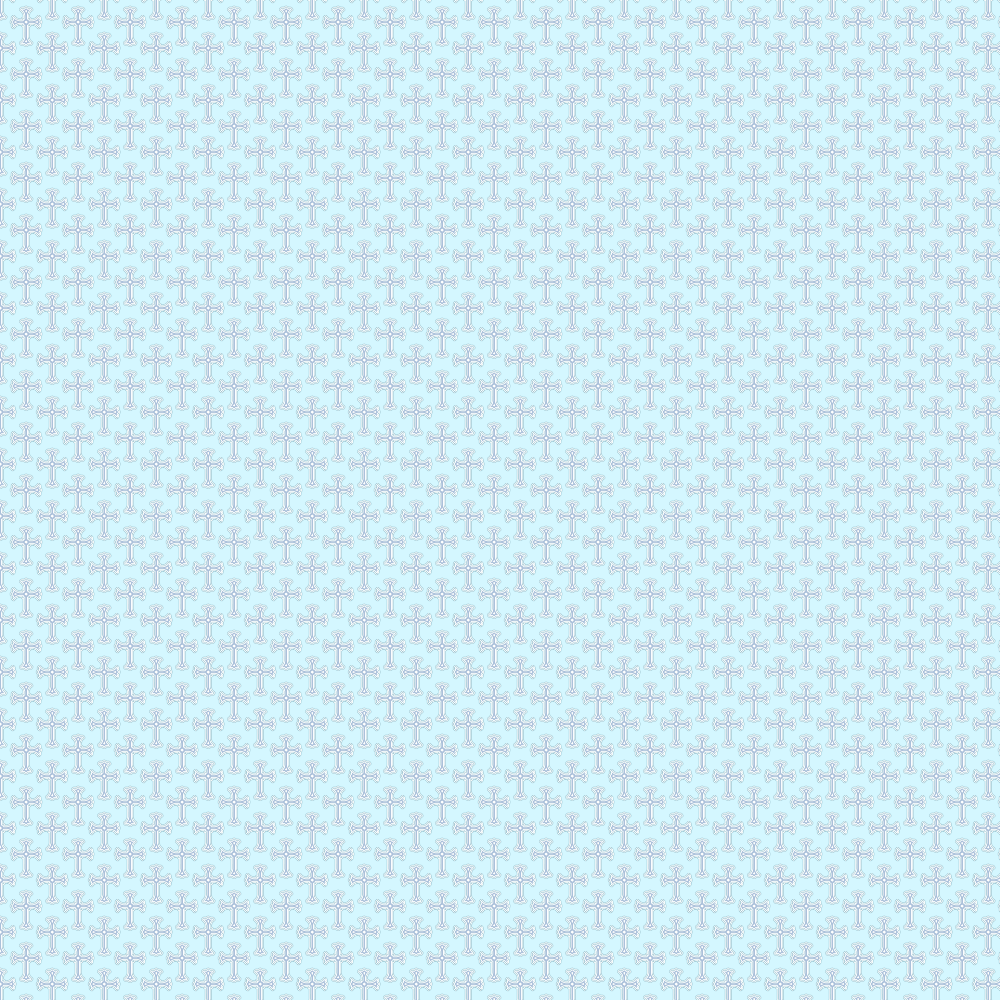
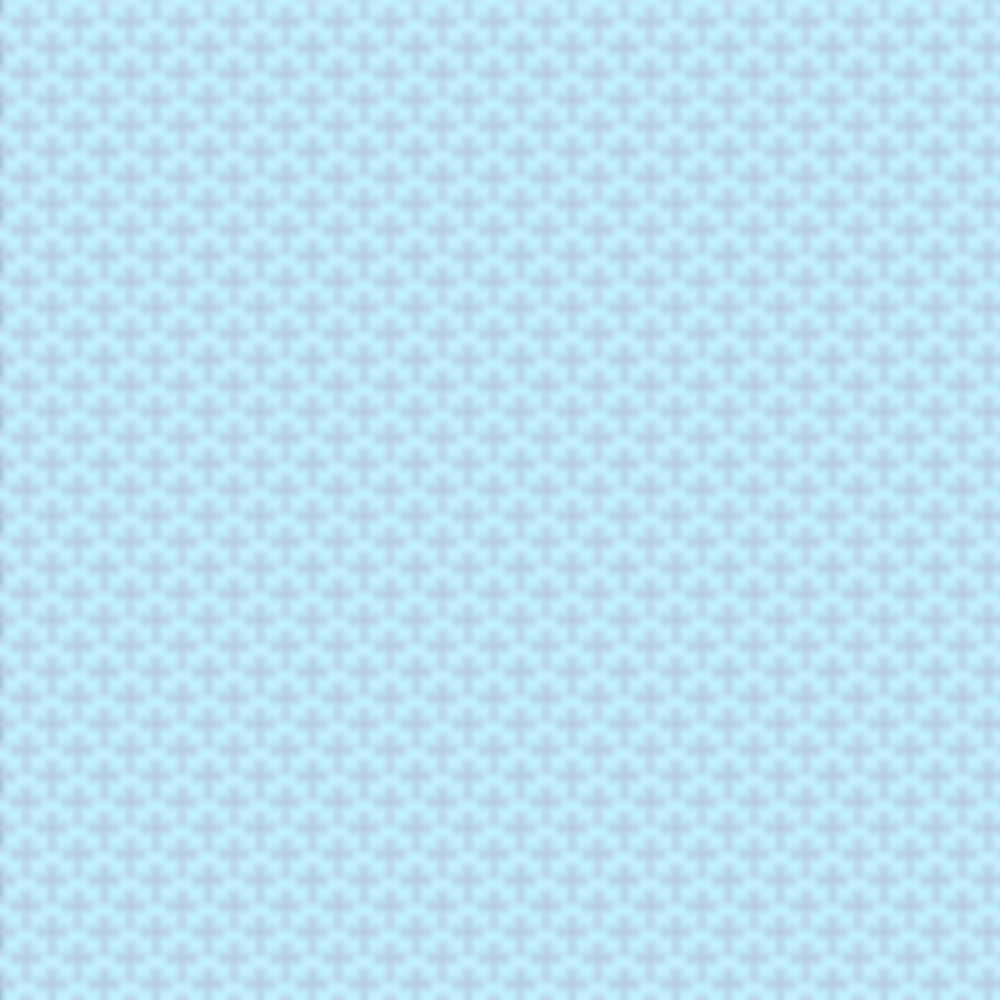
Fix width problem on music covers

Changed region(s): [[0.0, 0.0, 1.0, 1.0]]

diff --git a/src/components/smaller-components/projects-modal/MusicCovers.jsx b/src/components/smaller-components/projects-modal/MusicCovers.jsx
@@ -11,23 +11,37 @@ import 'swiper/css/navigation';
 import { EffectCoverflow, Pagination, Navigation } from 'swiper/modules';
 import CloseButton from '../CloseButton';
 
+
+const BackgroundDiv = styled.div`
+  background: linear-gradient(rgba(126, 23, 23, 0.562), rgba(126, 23, 23, 0.562)), url("/img/projects/music-covers/CrossBackground.png");
+  /* background: linear-gradient(rgba(101, 18, 18, 0.562), rgba(101, 18, 18, 0.562)), url("/img/projects/music-covers/CrossBackground.png"); */
+  background-size: cover;
+  background-position: center center;
+  background-repeat: repeat;
+  background-size: 1000px 1000px; 
+`
+
 const ContentContainer = styled.div`
-  overflow-x: hidden;
+  /* overflow-x: hidden; */
   height: 100%;
   display: flex;
   flex-direction: column;
   justify-content: space-between;
-  
-  background: linear-gradient(rgba(211, 38, 38, 0.39), #500c0cbe), url("/img/projects/music-covers/CrossBackground.png");
+
+  /* background: linear-gradient(rgba(211, 38, 38, 0.39), #500c0cbe), url("/img/projects/music-covers/CrossBackground.png");
   background-size: cover;
   background-position: top center;
-  background-repeat: no-repeat;
+  background-repeat: no-repeat; */
   /* color: #511a1e; */
   color: white;
 
   h2 {
-    color: #511a1e;
+    border-bottom: 1px solid black;
+    background-color: #511a1e;
+    color: white;
+    text-shadow: 5px 5px 5px rgba(0,0,0,.8);
     font-weight: 800;
+    box-shadow: 10px 10px 10px rgba(0,0,0,.4);
   }
 
   .title {
@@ -77,13 +91,11 @@ const ProjectDiv = styled.div`
     h3 {
       font-style: italic;
       margin-bottom: 1rem;
+      text-shadow: 8px 8px 8px rgba(0,0,0, .85);
     }
     iframe {
       width: 100%;
       height: 22rem;
-
-      border: 1px solid black;
-      box-shadow: 5px 5px 5px rgba(0,0,0, 0.3);
     }
     .info {
       width: 95%;
@@ -93,6 +105,11 @@ const ProjectDiv = styled.div`
       bottom: 1rem;
       right: 0;
       // NEW
+      h3 {
+        font-style: italic;
+        font-weight: 500;
+        font-size: 1.9rem;
+      }
     }
     .left {
       text-align: right;
@@ -107,6 +124,10 @@ const ProjectDiv = styled.div`
   .grid-item:nth-child(4n+1) {
     grid-column-start: 1;
     grid-column-end: 4;
+    iframe {
+      border: 1px solid black;
+      box-shadow: 15px 15px 15px rgba(0,0,0, .6);
+    }
     /* grid-column-start: 1;
     grid-column-end: 3; */
   }
@@ -127,6 +148,10 @@ const ProjectDiv = styled.div`
   .grid-item:nth-child(4n+4) {
     grid-column-start: 3;
     grid-column-end: 6;
+    iframe {
+      border: 1px solid black;
+      box-shadow: -15px 15px 15px rgba(0,0,0, .6);
+    }
     /* grid-column-start: 2;
     grid-column-end: 4; */
   }
@@ -289,15 +314,17 @@ function MusicCovers({ openModal, setOpenModal }) {
   }
   
     return (
+      <BackgroundDiv>
+        {/* <FixedGradient /> */}
       <ContentContainer>
-      <CloseButton setOpenModal={setOpenModal} />
+      <CloseButton color="white" setOpenModal={setOpenModal} />
       <div>
         <h2>Music Covers</h2>
 
-      <div style={{color: '#000000', padding: '0 1rem', marginBottom: '2rem', textAlign: 'center', fontStyle: 'italic', marginTop: '1.35rem'}}>
-            <p style={{fontSize:'1.1rem', fontWeight: 900}}>Here are some songs I've covered on guitar.</p>
-            <p style={{fontSize:'1.1rem', fontWeight: 900}}>It goes in chronological order (from oldest to latest)</p>
-            <p style={{fontSize:'1.1rem', fontWeight: 900}}>I love live music! I aspire to be a live performer one day!</p>
+      <div style={{color: 'white', textShadow: '1px 1px 1px black', padding: '0 1rem', marginBottom: '2rem', textAlign: 'center', fontStyle: 'italic', marginTop: '1.35rem'}}>
+            <p style={{fontSize:'1.1rem', fontWeight: 700}}>Here are some songs I've covered on guitar.</p>
+            <p style={{fontSize:'1.1rem', fontWeight: 700}}>It goes in chronological order (from oldest to latest)</p>
+            <p style={{fontSize:'1.1rem', fontWeight: 700}}>I love live music! I aspire to be a live performer one day!</p>
       </div>
 
         <ProjectDiv>
@@ -518,6 +545,7 @@ function MusicCovers({ openModal, setOpenModal }) {
 
       </div>
       </ContentContainer>
+      </BackgroundDiv>
     )
 }
 
